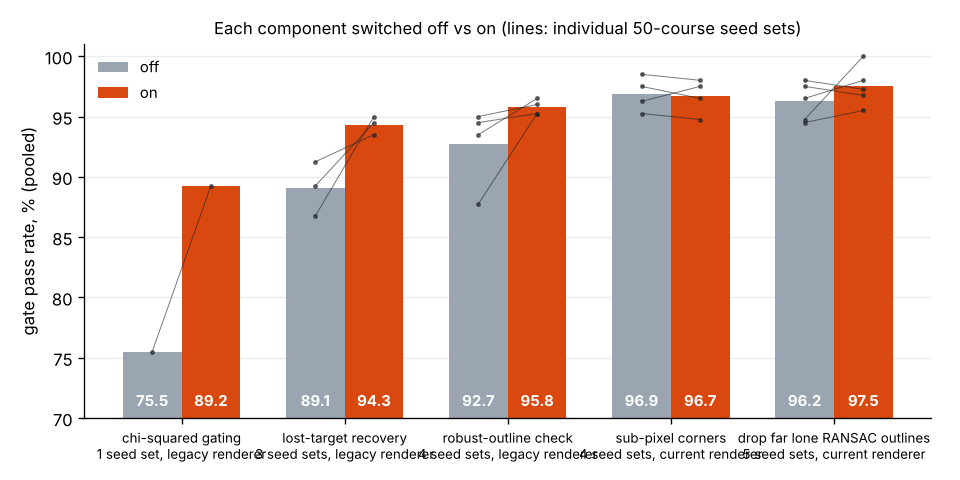
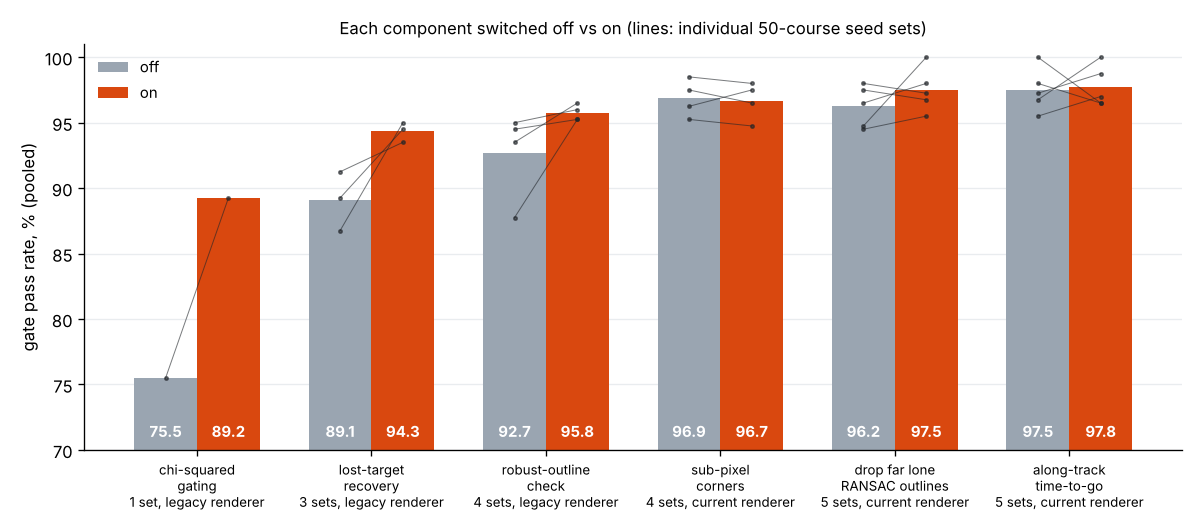
Write-up refresh: along-track time-to-go in README/WRITEUP, history/ablation/paired-laps figures, pooled 5-set headline
Claude-Session: https://claude.ai/code/session_0139EjMRob9sZRbkiboDteWg

diff --git a/vdr/report.py b/vdr/report.py
@@ -10,6 +10,7 @@ runs the simulator.
 from __future__ import annotations
 
 import argparse
+import textwrap
 import json
 import os
 from statistics import mean, median
@@ -30,6 +31,7 @@ HISTORY = [
     ("2026-10-12_a1d6b65_rebaseline-coverage-aa.json", "renderer fix\n(re-baseline)", 1),
     ("2026-10-12_3b6cbbb_baseline.json", "sub-pixel\ncorners", 1),
     ("2026-10-13_0f1e256_baseline.json", "drop far lone\nRANSAC outlines", 1),
+    ("2026-10-15_1d4bb7f_baseline.json", "along-track\ntime-to-go", 1),
 ]
 
 # Component A/Bs: (label, [(off file, on file), ...] one pair per seed set).
@@ -59,10 +61,33 @@ ABLATIONS = [
         ("2026-10-13_b6a6a31_baseline-seed3000.json", "2026-10-13_b6a6a31_ab-droplone-seed3000.json"),
         ("2026-10-13_b6a6a31_baseline-seed4000.json", "2026-10-13_b6a6a31_ab-droplone-seed4000.json"),
     ]),
+    # Off: seed 0 re-flown at 131d93c (per-run identical to 0f1e256); other sets from 2d7e3f6
+    # with the flag off (code path unchanged by 131d93c).
+    ("along-track time-to-go", [
+        ("2026-10-14_131d93c_baseline.json", "2026-10-14_131d93c_ab-attgo.json"),
+        ("2026-10-14_2d7e3f6_baseline-seed1000.json", "2026-10-14_131d93c_ab-attgo-seed1000.json"),
+        ("2026-10-14_2d7e3f6_baseline-seed2000.json", "2026-10-14_131d93c_ab-attgo-seed2000.json"),
+        ("2026-10-14_2d7e3f6_baseline-seed3000.json", "2026-10-15_131d93c_ab-attgo-seed3000.json"),
+        ("2026-10-14_2d7e3f6_baseline-seed4000.json", "2026-10-15_131d93c_ab-attgo-seed4000.json"),
+    ]),
 ]
 
-# Paired lap-time comparison (same seeds, flag off vs on).
-PAIRED = ("sub-pixel corners", ABLATIONS[3][1])
+# A/Bs that were tried and left off (shown in the write-up, not in the ablation figure).
+REJECTED = [
+    ("lateral-first saturation", [
+        ("2026-10-13_2d7e3f6_baseline.json", "2026-10-13_2d7e3f6_ab-latprio.json"),
+        ("2026-10-14_2d7e3f6_baseline-seed1000.json", "2026-10-14_2d7e3f6_ab-latprio-seed1000.json"),
+        ("2026-10-14_2d7e3f6_baseline-seed2000.json", "2026-10-14_2d7e3f6_ab-latprio-seed2000.json"),
+        ("2026-10-14_2d7e3f6_baseline-seed3000.json", "2026-10-14_2d7e3f6_ab-latprio-seed3000.json"),
+        ("2026-10-14_2d7e3f6_baseline-seed4000.json", "2026-10-14_2d7e3f6_ab-latprio-seed4000.json"),
+    ]),
+]
+
+# Paired lap-time comparisons (same seeds, flag off vs on): (label, pairs, output file name).
+PAIRED = [
+    ("sub-pixel corners", ABLATIONS[3][1], "paired_laps.png"),
+    ("along-track time-to-go", ABLATIONS[5][1], "paired_laps_tgo.png"),
+]
 
 C_OFF, C_ON, C_INK, C_GRID = "#9aa5b1", "#d9480f", "#212529", "#e9ecef"
 
@@ -130,7 +155,7 @@ def plot_ablations(path, root=RESULTS) -> list:
         on = pooled_pass([p[1] for p in pairs], root)
         per_set = [(100 * load(a, root)["pass_rate"], 100 * load(b, root)["pass_rate"]) for a, b in pairs]
         rows.append((label, len(pairs), 100 * off[0] / off[1], 100 * on[0] / on[1], per_set))
-    fig, ax = plt.subplots(figsize=(8, 4))
+    fig, ax = plt.subplots(figsize=(10, 4.4))
     w = 0.36
     for i, (label, n, off, on, per_set) in enumerate(rows):
         ax.bar(i - w / 2, off, w, color=C_OFF, label="off" if i == 0 else None)
@@ -141,7 +166,8 @@ def plot_ablations(path, root=RESULTS) -> list:
         ax.text(i + w / 2, 71, f"{on:.1f}", ha="center", fontsize=9, color="white", weight="bold")
     sim = ["legacy renderer" if pairs[0][0] < "2026-10-12" else "current renderer" for _, pairs in ABLATIONS]
     ax.set_xticks(range(len(rows)),
-                  [f"{r[0]}\n{r[1]} seed set{'s' if r[1] > 1 else ''}, {sim[i]}" for i, r in enumerate(rows)],
+                  [f"{textwrap.fill(r[0], 16)}\n{r[1]} set{'s' if r[1] > 1 else ''}, {sim[i]}"
+                   for i, r in enumerate(rows)],
                   fontsize=8)
     ax.set_ylim(70, 101)
     ax.set_ylabel("gate pass rate, % (pooled)")
@@ -154,8 +180,8 @@ def plot_ablations(path, root=RESULTS) -> list:
     return rows
 
 
-def plot_paired(path, root=RESULTS) -> dict:
-    label, pairs = PAIRED
+def plot_paired(path, root=RESULTS, which: int = 0) -> dict:
+    label, pairs, _ = PAIRED[which]
     diffs = paired_laps(pairs, root)
     stats = {"n": len(diffs), "mean": mean(diffs), "median": median(diffs),
              "faster": sum(d < 0 for d in diffs)}
@@ -184,8 +210,15 @@ def main(argv=None):
         print(f"history   {r[0]!r:28} pass {r[2]:.1f}%  completion {r[3]:.0f}%  {r[4]}")
     for r in plot_ablations(os.path.join(a.out, "ablations.png"), a.results):
         print(f"ablation  {r[0]:22} {r[1]} set(s)  off {r[2]:.1f}%  on {r[3]:.1f}%")
-    s = plot_paired(os.path.join(a.out, "paired_laps.png"), a.results)
-    print(f"paired    n={s['n']} mean {s['mean']:+.3f} s  median {s['median']:+.3f} s  faster {s['faster']}")
+    for label, pairs in REJECTED:
+        off = pooled_pass([p[0] for p in pairs], a.results)
+        on = pooled_pass([p[1] for p in pairs], a.results)
+        print(f"rejected  {label:22} {len(pairs)} set(s)  off {100 * off[0] / off[1]:.2f}%  "
+              f"on {100 * on[0] / on[1]:.2f}%")
+    for i, (label, _, fname) in enumerate(PAIRED):
+        s = plot_paired(os.path.join(a.out, fname), a.results, i)
+        print(f"paired    {label:22} n={s['n']} mean {s['mean']:+.3f} s  median {s['median']:+.3f} s  "
+              f"faster {s['faster']}")
 
 
 if __name__ == "__main__":

diff --git a/tests/test_report.py b/tests/test_report.py
@@ -7,12 +7,15 @@ from vdr import report
 
 def test_report_files_exist_and_figures_render(tmp_path):
     names = [f for f, _, _ in report.HISTORY]
-    names += [f for _, pairs in report.ABLATIONS for pair in pairs for f in pair]
+    names += [f for _, pairs in report.ABLATIONS + report.REJECTED for pair in pairs for f in pair]
     missing = [n for n in names if not os.path.exists(os.path.join(report.RESULTS, n))]
     assert not missing, missing
     rows = report.plot_history(str(tmp_path / "h.png"))
     assert abs(rows[0][2] - 100 * report.load(report.HISTORY[0][0])["pass_rate"]) < 1e-9
     report.plot_ablations(str(tmp_path / "a.png"))
-    stats = report.plot_paired(str(tmp_path / "p.png"))
-    assert stats["n"] > 0
-    assert all((tmp_path / n).stat().st_size > 1000 for n in ("h.png", "a.png", "p.png"))
+    pngs = ["h.png", "a.png"]
+    for i in range(len(report.PAIRED)):
+        stats = report.plot_paired(str(tmp_path / f"p{i}.png"), which=i)
+        assert stats["n"] > 0
+        pngs.append(f"p{i}.png")
+    assert all((tmp_path / n).stat().st_size > 1000 for n in pngs)

diff --git a/docs/WRITEUP.md b/docs/WRITEUP.md
@@ -24,16 +24,23 @@ default configuration.
 
 | configuration (current simulator) | gate pass rate | courses completed | mean lap |
 |---|---|---|---|
-| **default** | **96.8%** | 94% | 12.27 s |
-| far lone RANSAC outlines kept | 97.5% | 96% | 12.33 s |
+| **default** | **100.0%** | 100% | 11.26 s |
+| along-track time-to-go off | 96.8% | 94% | 12.27 s |
+| also far lone RANSAC outlines kept | 97.5% | 96% | 12.33 s |
 | also sub-pixel corners off | 96.2% | 94% | 12.5 s |
 
-Source: [`2026-10-13_0f1e256_baseline.json`](../results/2026-10-13_0f1e256_baseline.json),
+Source: [`2026-10-15_1d4bb7f_baseline.json`](../results/2026-10-15_1d4bb7f_baseline.json),
+[`2026-10-13_0f1e256_baseline.json`](../results/2026-10-13_0f1e256_baseline.json),
 [`2026-10-12_3b6cbbb_baseline.json`](../results/2026-10-12_3b6cbbb_baseline.json),
-[`2026-10-12_06ceff9_baseline.json`](../results/2026-10-12_06ceff9_baseline.json). The three
-failures in the headline set are all `crash_gate` (clipping a frame). The latest change lowers
-this one set by one run but raises the pass rate pooled over five sets (section 6.5); single
-sets of 50 courses move by a run or two from noise alone.
+[`2026-10-12_06ceff9_baseline.json`](../results/2026-10-12_06ceff9_baseline.json).
+
+**Seed set 0 is a lucky set; the pooled number is the honest one.** Over five sets of 50
+courses (seeds 0, 1000, 2000, 3000, 4000; 2000 gates) the default passes **97.75%** of gates
+and completes 241 of 250 courses (per set 100.0 / 96.5 / 98.8 / 96.5 / 97.0%, laps 11.1–11.3 s;
+`results/2026-10-1{4,5}_131d93c_ab-attgo[-seedN].json`, flown with the same code as the
+default). The nine failures are 8 `crash_gate` (clipping a frame) and 1 `missed_gate`. The
+latest change made laps a second faster at an unchanged pooled pass rate (97.50% → 97.75%,
+section 6.6); its +3.2 points on seed set 0 alone are noise.
 
 ![Headline benchmark after each kept change](img/history.png)
 
@@ -53,9 +60,14 @@ sets named; each grey line is one 50-course set):
 | robust-outline check | 4 | 92.7% → 95.8% | `2026-10-11_68513f6_` |
 | sub-pixel corners | 4 | 96.9% → 96.7% (laps 0.155 s faster) | `2026-10-12_06ceff9_` |
 | drop far lone RANSAC outlines | 5 | 96.25% → 97.50% (laps unchanged) | `2026-10-1{2,3}_b6a6a31_` |
+| along-track time-to-go | 5 | 97.50% → 97.75% (laps 1.03 s faster) | `2026-10-1{4,5}_131d93c_ab-attgo` |
+| *tried, left off:* lateral-first saturation | 5 | 97.50% → 98.25% (completed 240 → 240) | `2026-10-1{3,4}_2d7e3f6_` |
 
 The first three were measured on the earlier renderer. Sub-pixel corners did not change the
-pass rate; they were kept because they made laps faster at equal pass rate (section 5).
+pass rate; they were kept because they made laps faster at equal pass rate (section 5), and
+the same holds for along-track time-to-go. Lateral-first saturation raised the gate count but
+not the number of completed courses (it rescued 8 runs and broke 8, which then failed later in
+the course), so it was not counted as a clear win (section 6.6).
 
 Two reference points from the bootstrap: at 4 m/s with no race clock the stack passes 97.8% of
 gates ([`0423930_ablation-4mps-noclock`](../results/2026-10-07_0423930_ablation-4mps-noclock.json))
@@ -177,9 +189,12 @@ v_f = (8 m/s, 0, 0) along the gate normal. Its initial acceleration has a closed
 
   a = (6 (p_f − p) − 2T (2v + v_f)) / T²
 
-with T estimated from distance and closing speed. Inside x > −1.2 m it switches to "hold the
-line": a velocity loop towards v_f plus lateral and vertical position feedback. (A floor on T
-used instead made the drone brake to a stop 0.7 m short of the gate.)
+Time-to-go comes from the along-track motion only, T = 2(−p_x)/(v_x + |v_f|), so a drone on the
+gate axis at cruise speed gets zero along-track demand. The lateral and vertical axes use the
+same T floored at 0.3 s (their gain grows as 1/T²); the along-track axis is not floored. Inside
+x > −1.2 m guidance switches to "hold the line": a velocity loop towards v_f plus lateral and
+vertical position feedback. (A floor on T used instead made the drone brake to a stop 0.7 m
+short of the gate.) The total demand is clipped to 14 m/s².
 
 Control turns the desired acceleration into acro commands: thrust along the required specific
 force (with a 55° tilt limit), a desired attitude from that axis plus the desired heading, and
@@ -205,7 +220,7 @@ live in `AutonomyConfig` and are deliberately not copied from the simulator.
   one changed corners by 1e-13 px yet altered 40+ of 50 trajectories and flipped 1–2 outcomes
   per seed set. Because a run ends at its first failure, one early crash can cost up to 2% of
   the 400 gates. So differences under ~8 percentage points on one set are treated as noise,
-  and smaller effects are judged only pooled over several seed sets (0, 1000, 2000, 3000), with
+  and smaller effects are judged only pooled over several seed sets (0, 1000, 2000, 3000, 4000), with
   a set held out when a threshold was tuned on the others.
 * **Pace rule.** A change counts only if the pass rate rises without the mean lap time getting
   more than 5% worse; going faster at equal pass rate also counts.
@@ -215,6 +230,11 @@ live in `AutonomyConfig` and are deliberately not copied from the simulator.
 ![Paired lap-time differences, sub-pixel corners on minus off](img/paired_laps.png)
 
   Sub-pixel corners: 145 of 179 paired runs faster, mean −0.155 s (median −0.147 s).
+
+![Paired lap-time differences, along-track time-to-go on minus off](img/paired_laps_tgo.png)
+
+  Along-track time-to-go: 232 of 233 paired runs faster, mean −1.025 s (median −1.033 s),
+  about 8% of a lap.
 * **Simulator changes** go in as a `SimConfig` field defaulting to the old behaviour, then the
   default is flipped in a separate commit and the benchmark re-baselined.
 
@@ -264,12 +284,38 @@ outlines beyond 7 m read a median 2.8% near with a 0% threshold and 3.5% near wi
 about half stay more than 5% off either way, because more than half of them have no opening
 to compare against.
 
+### 6.6 The crashes were control, not perception (laps −1.03 s)
+With perception fixed up, the remaining failures looked different. Re-flying the 10 failed
+runs over five seed sets with truth logged showed every crash hitting the target gate's frame
+0.5–0.8 m off centre, and in 8 of 10 the estimate was within 6 cm of the truth at impact: the
+drone knew where the gate was but could not get there. The guidance was asking for 30–75 m/s²
+against a 14 m/s² limit, and clipping the vector uniformly spent most of the budget on
+along-track *braking*.
+
+The first try reordered the clip (lateral first, along-track gets what is left). It rescued 8
+runs and broke 8 others: with the full budget sideways until about 1.8 m out, the drone built
+4–5 m/s of lateral speed it could not remove and overshot into the other side of the frame.
+Left off.
+
+The better question was why there was braking at all. Printing the demand per axis on a
+nominal state (on the gate axis, at cruise speed) showed it: the 0.3 s floor on time-to-go is
+active from about 2.4 m out at 8 m/s, so the cubic believes it will arrive *early* and brakes
+(−27 m/s² at x = −2 m with 0.6 m lateral offset). Taking T from the along-track motion and
+dropping the floor on that axis removed the phantom braking. Pooled pass rate stayed flat
+(97.50% → 97.75%; 8 runs rescued, 7 broken) and laps got 1.03 s faster on 233 paired runs,
+which counts as an improvement under the pace rule. The 7 broken runs are the same failure at
+higher speed: lateral demand saturating close to the gate, often after a late correction
+following a handoff.
+
 ## 7. Limitations and next steps
 
 * Next-gate estimates are still the weak point; with the earlier renderer about 10% of
   handoffs were more than 1.5 m off along x. Using both squares in one PnP (8 points), a
   gravity-constrained 4-DoF PnP (position + yaw only), and a measurement covariance from the
   PnP Jacobian are the planned attacks.
+* Most remaining failures are lateral saturation near the gate (section 6.6). The guidance
+  should plan within its acceleration limit (choose T so the lateral cubic's peak acceleration
+  stays under 14 m/s², slowing along x only when it must) instead of relying on clipping.
 * Guidance plans one gate at a time; a lookahead through the current *and* next gate would
   start turns earlier.
 * The world is still clean: no latency, motion blur, lens distortion, lighting changes,

diff --git a/README.md b/README.md
@@ -39,19 +39,26 @@ Current simulator (area-coverage gate rendering, since 2026-10-12):
 
 | configuration | gate pass rate | courses completed | mean lap |
 |---|---|---|---|
-| **baseline (8 m/s)** | **96.8%** | 94% | 12.27 s |
-| same, far lone RANSAC outlines kept | 97.5% | 96% | 12.33 s |
+| **baseline (8 m/s)**, seed set 0 | **100.0%** | 100% | 11.26 s |
+| **baseline, pooled over 5 seed sets (250 courses)** | **97.75%** | 96.4% | 11.1–11.3 s per set |
+| same, along-track time-to-go off | 96.8% | 94% | 12.27 s |
+| same, also far lone RANSAC outlines kept | 97.5% | 96% | 12.33 s |
 | same, also sub-pixel corners off | 96.2% | 94% | 12.5 s |
 
-Files: [`baseline`](results/2026-10-13_0f1e256_baseline.json),
+Files: [`baseline`](results/2026-10-15_1d4bb7f_baseline.json),
+pooled: `results/2026-10-1{4,5}_131d93c_ab-attgo[-seedN].json` (same code as the baseline),
+[`along-track time-to-go off`](results/2026-10-13_0f1e256_baseline.json),
 [`far lone RANSAC outlines kept`](results/2026-10-12_3b6cbbb_baseline.json),
 [`sub-pixel corners off`](results/2026-10-12_06ceff9_baseline.json).
-Single 50-run sets differ by one or two runs from noise alone, so components are judged pooled
-over several seed sets. Dropping RANSAC outlines that have no opening of their own to
-cross-check beyond 6 m (they read gates ~12% too near) raises the pooled pass rate over five
-sets from 96.25% to 97.50% at unchanged lap time, although seed set 0 happens to lose one run.
-Sub-pixel corners leave the pooled pass rate unchanged (96.9% off, 96.7% on, four sets) and
-make completed laps 0.155 s faster (paired, 145 of 179 runs faster).
+Seed set 0 happens to be a lucky set: single 50-run sets differ by one or two runs from noise
+alone, so the pooled row is the number to quote and components are judged pooled over several
+seed sets. The latest change takes the guidance's time-to-go from along-track motion: it
+removed spurious braking near each gate and made completed laps 1.03 s faster (232 of 233
+paired runs) at an unchanged pooled pass rate (97.50% → 97.75%). Before it, dropping RANSAC
+outlines that have no opening to cross-check beyond 6 m raised the pooled pass rate from
+96.25% to 97.50%, and sub-pixel corners made laps 0.155 s faster at equal pass rate. Most
+remaining failures are the drone running out of sideways acceleration just before a gate
+(details in the write-up).
 
 ![Headline benchmark after each kept change](docs/img/history.png)
 
@@ -136,7 +143,7 @@ camera noise.
 
 ```bash
 pip install -r requirements.txt
-python -m pytest -q                         # 63 tests, ~60 s
+python -m pytest -q                         # 69 tests, ~60 s
 python -m vdr.harness --runs 50 --seed 0    # the benchmark (~2 min on 2 cores)
 python -m vdr.harness --runs 50 --flag chi2_gating=false      # an ablation
 python -m vdr.harness --runs 50 --sim pixel_noise_sigma=8     # a harder world
@@ -159,7 +166,8 @@ an assumed vehicle model (rate and thrust lags, linear drag). It flies, but less
 | 3000 | 98.0% | 92.2% |
 | pooled (1600 gates) | **98.0%** | **94.1%** |
 
-Files: `results/2026-10-13_db88370_{baseline,ab-camonly}[-seedN].json`. Seed set 0 alone
+Files: `results/2026-10-13_db88370_{baseline,ab-camonly}[-seedN].json` (measured before
+along-track time-to-go, so the default column is the older 96.8% baseline). Seed set 0 alone
 would suggest the opposite; pooled, camera-only loses 20 runs and rescues 5. Its vehicle model
 uses the airframe's nominal values; a real drone's model would be less exact.
 

diff --git a/NIGHTLY_LOG.md b/NIGHTLY_LOG.md
@@ -588,3 +588,43 @@ lap 12.27 -> 11.26 s.
 lateral acceleration (6|Δy|/T² for a rest-to-rest move) stays under the limit and slow along x
 only when that T exceeds the arrival time; pooled over 5 sets, paired laps. (C) write-up is due
 by 2026-10-19 — README/WRITEUP still quote the 96.8% / 12.27 s baseline (true for its file).
+
+## 2026-10-15 — Run 12: (C) write-up refresh
+
+Chunk choice: runs 10 and 11 were both (A), and README/WRITEUP still quoted the pre-run-11
+baseline (96.8% / 12.27 s), so this run is (C).
+
+**Baseline check** at 1c03a85 (local `main` had been 35 commits behind `origin/main`;
+fast-forwarded before starting): tests 69 passed; `--runs 50 --seed 0` 100.0% (400/400),
+50/50 completed, 11.26 s, median est. error 0.401 m — identical to
+`results/2026-10-15_1d4bb7f_baseline.json` (run not saved; no code change since).
+
+**What changed (docs and figures only; no autonomy or sim code touched):**
+- `vdr/report.py`: 1d4bb7f baseline added to the history; along-track time-to-go added to the
+  ablation figure (5 sets: 97.50% -> 97.75%); new `REJECTED` list (lateral-first saturation,
+  97.50% -> 98.25%, printed, not plotted); `PAIRED` is now a list, giving a second figure
+  `docs/img/paired_laps_tgo.png` (233 paired runs, 232 faster, mean -1.025 s, median -1.033 s).
+  Ablation tick labels wrapped (they overlapped with 6 bars). `tests/test_report.py` covers the
+  new lists and both paired figures.
+- README: results table leads with seed set 0 (100.0%) *and* the pooled 5-set number
+  (97.75%, 241/250 completed, from `results/2026-10-1{4,5}_131d93c_ab-attgo[-seedN].json`,
+  same code as the default), says plainly that seed 0 is a lucky set; camera-only table
+  labelled as measured before along-track time-to-go; test count 63 -> 69.
+- WRITEUP: section 2 (pooled number, failure outcomes 8 crash_gate + 1 missed_gate), ablation
+  table rows for along-track time-to-go and the left-off lateral-first A/B, section 3.6
+  describes the current time-to-go law, section 5 adds the second paired-laps figure, new
+  debugging story 6.6 (crashes were control, not perception; phantom braking from the T floor),
+  section 7 names lateral saturation as the main remaining failure.
+- `docs/img/flight.gif` re-recorded (seed 0, current default: completed 8/8).
+
+All numbers checked against `python -m vdr.report` output and the results files.
+Tests: 69 passed; 8-run smoke test 100.0%. **Pass rate:** no change (headline 100.0%, pooled
+97.75%).
+
+Not done: the browser replay recordings (`docs/demo/flights.js`) and the camera-only A/B
+predate along-track time-to-go; re-running camera-only on the current default should come
+first so the replay and its table match (ROADMAP C).
+
+**Next:** (A) lateral guidance that plans within `max_accel` (ROADMAP A0), pooled over 5 sets
+with paired laps.
+

diff --git a/ROADMAP.md b/ROADMAP.md
@@ -71,12 +71,21 @@ the legacy renderer (gates painted ~0.7 px too wide) and is not directly compara
 ## (C) Write-up
 
 - Keep `docs/WRITEUP.md` and the README current after each kept change (add new results files
-  to `vdr/report.py`'s lists and re-run `python -m vdr.report`). Next due by 2026-10-19.
+  to `vdr/report.py`'s lists and re-run `python -m vdr.report`). Next due by 2026-10-22.
 - Possible additions: a per-stage figure (detection -> PnP error vs range, from a committed
   diagnostic results file), and a failure-mode breakdown once `vdr.analyze` exists.
+- The browser replay (`docs/demo/flights.js`) and the camera-only table were recorded before
+  along-track time-to-go. Re-run the camera-only A/B on 5 sets with the current default, then
+  regenerate the replay (`python -m vdr.demo --benchmark-out docs/demo/benchmark.js`) so the
+  flights and the table match the same code.
 
 ## Done
 
+- 2026-10-15 — Write-up refresh (run 12): README/WRITEUP report the 1d4bb7f baseline (seed 0
+  100.0%, pooled over 5 sets 97.75%, 11.26 s), along-track time-to-go in the history, ablation
+  and a second paired-laps figure (`docs/img/paired_laps_tgo.png`), the lateral-first A/B as a
+  "tried, left off" row, guidance section rewritten, debugging story 6.6 (crashes were control).
+  Flight GIF re-recorded with the current default.
 - 2026-10-15 — Along-track time-to-go (`along_track_tgo`, default on): the 0.3 s T floor made the
   cubic brake at 20-70 m/s² inside x ≈ -2.4 m. Pooled pass 97.50% -> 97.75% (flat), completed
   240 -> 241, paired laps -1.03 s (233 runs); headline seed 0 96.8% -> 100.0%, 12.27 -> 11.26 s.
